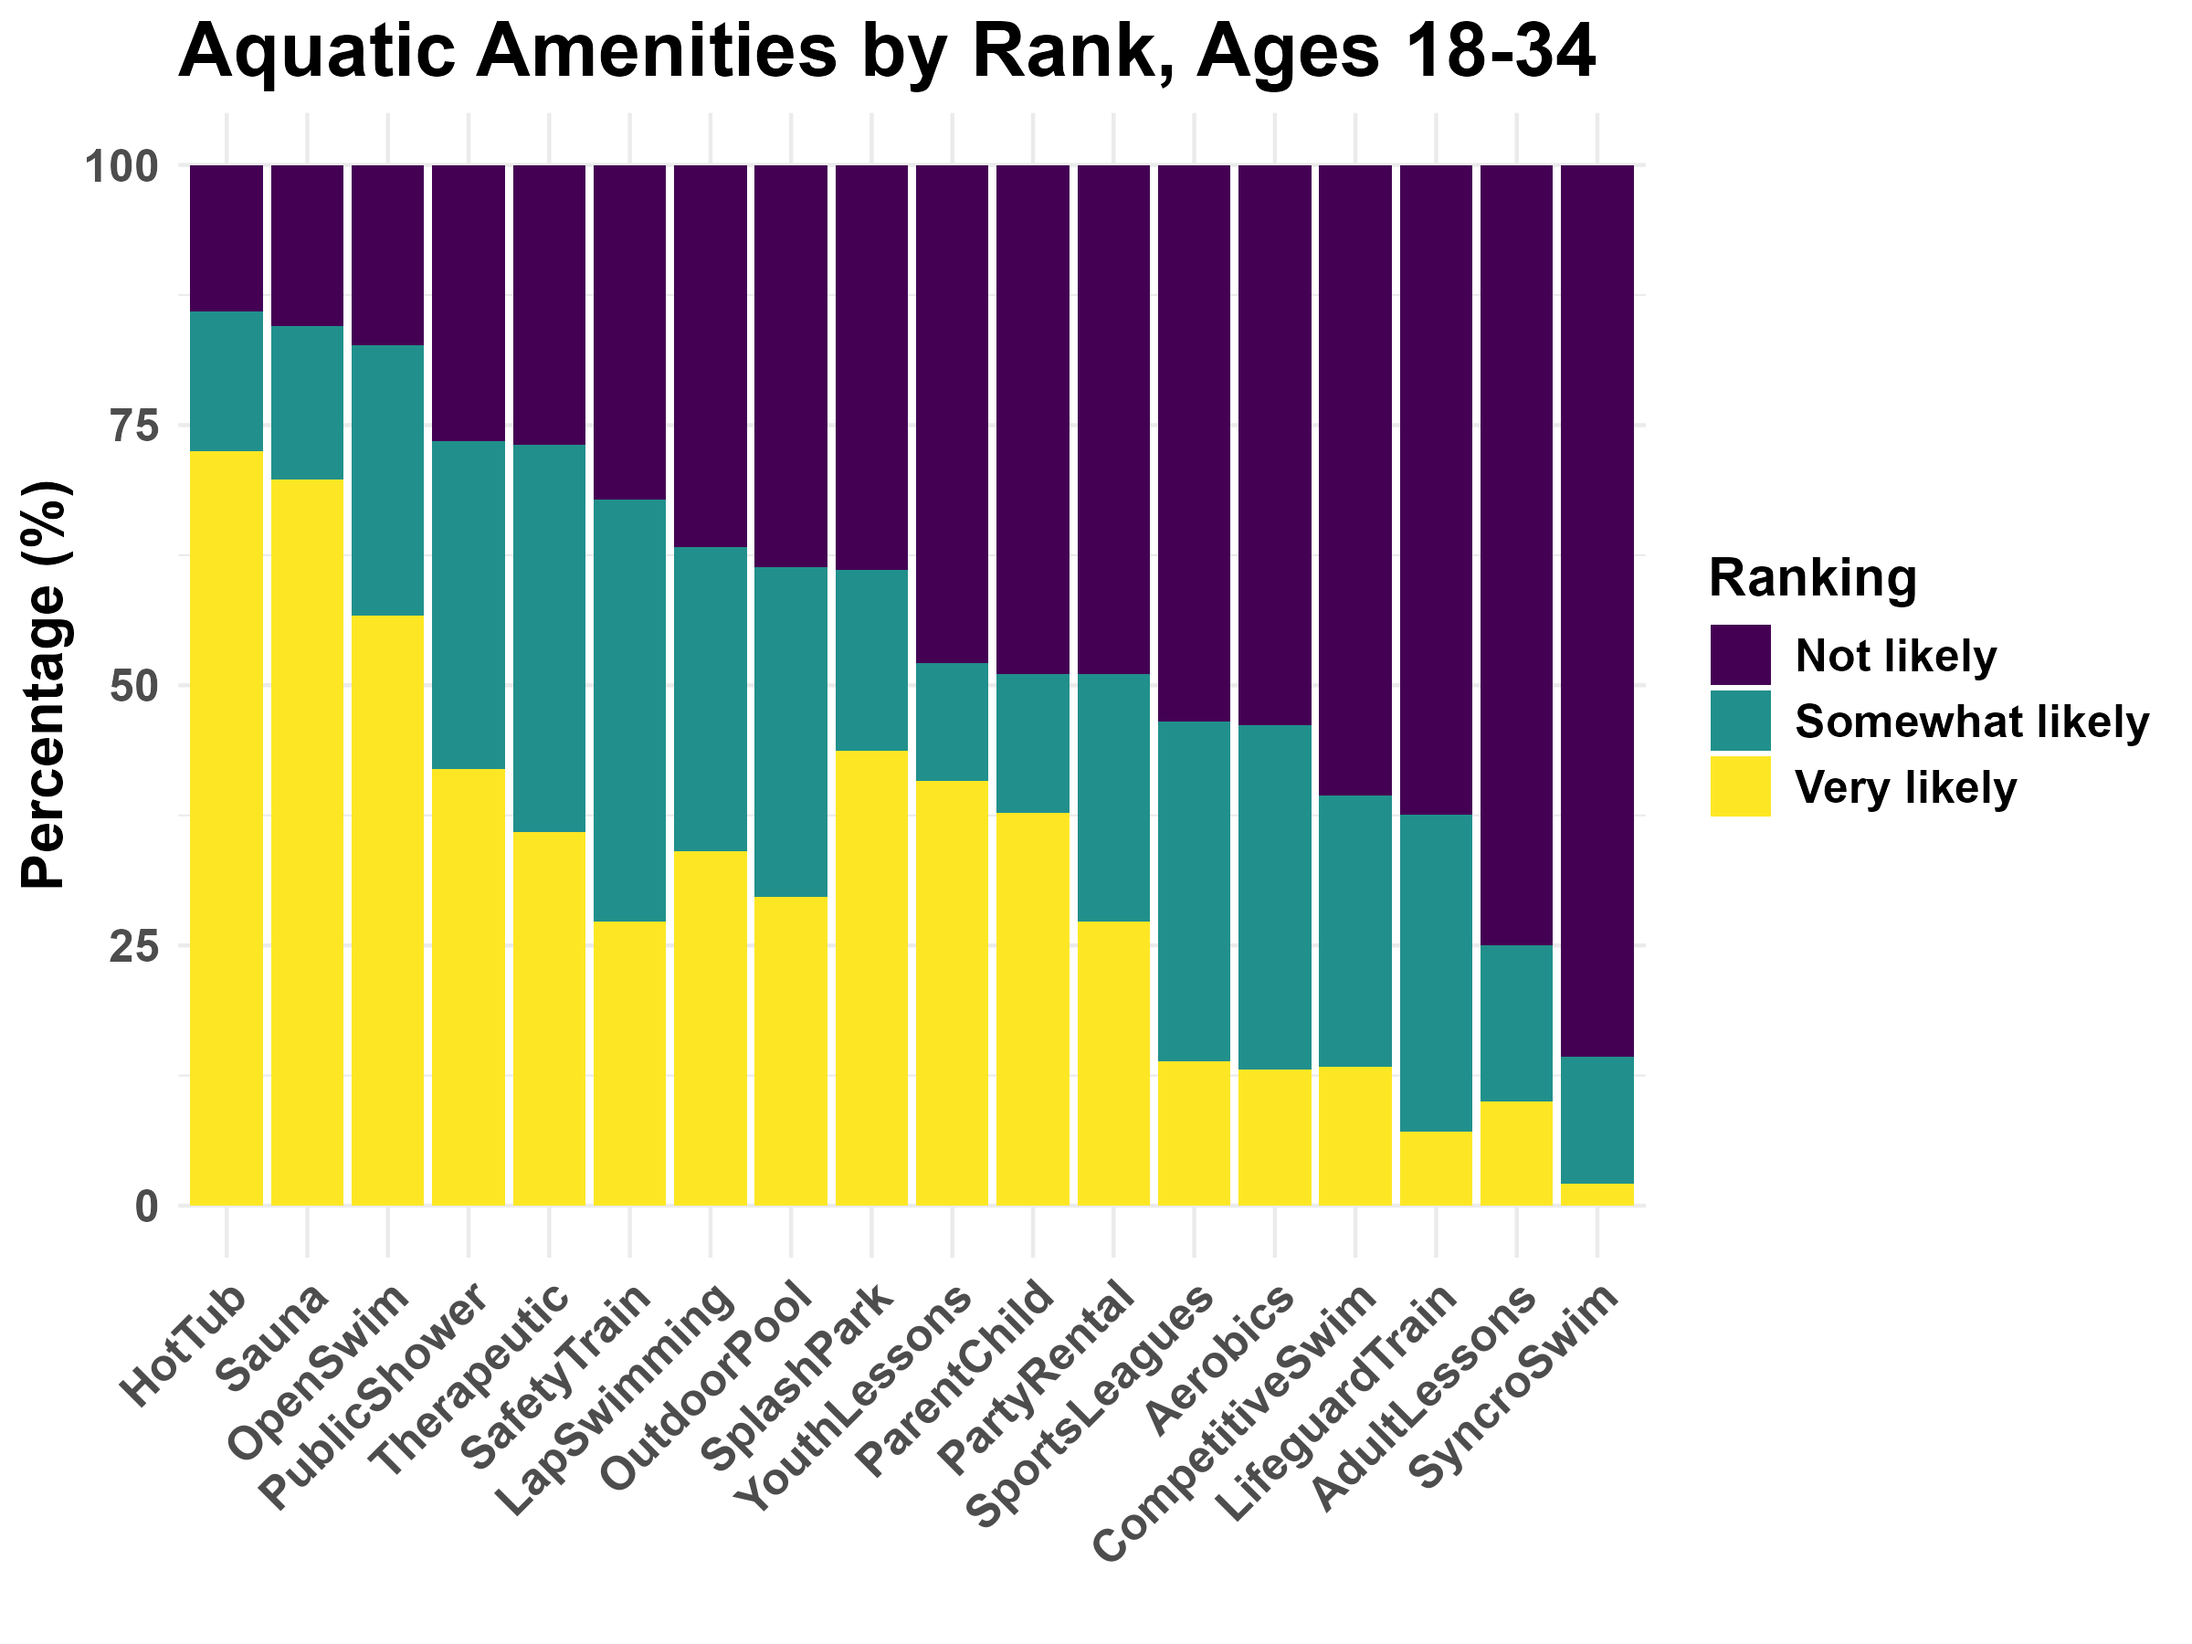
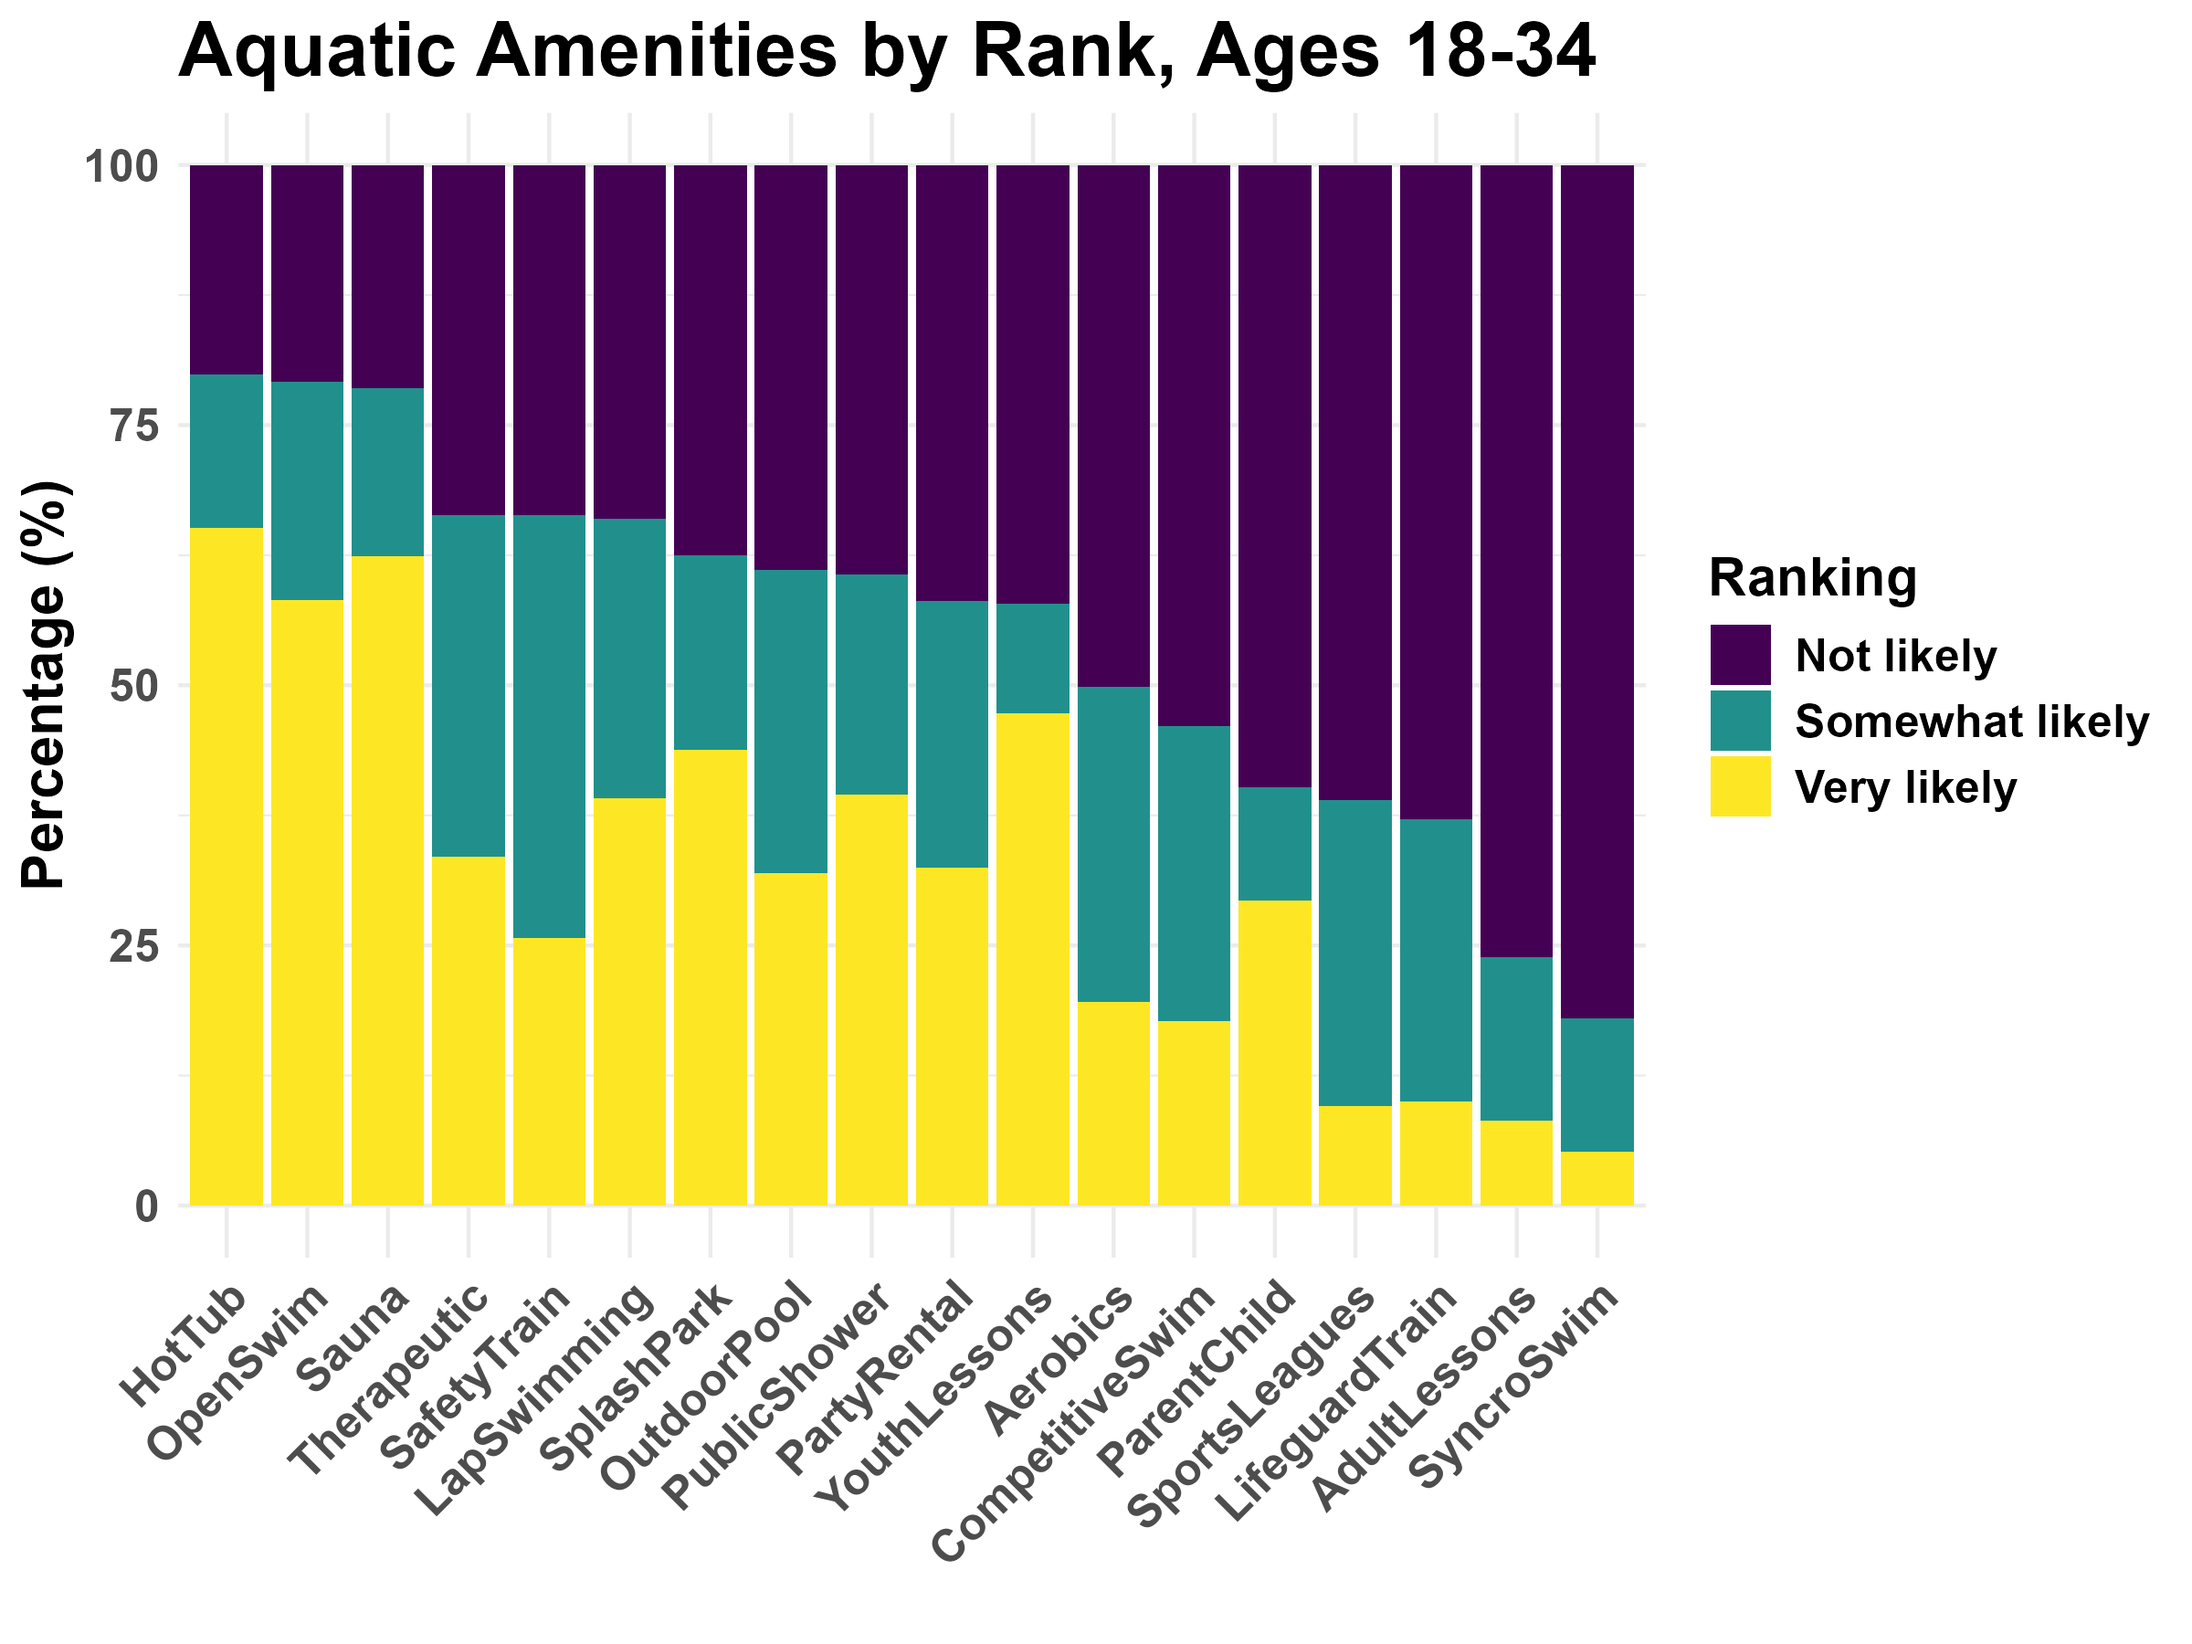
a few small figure refinements and a weighting verification step

diff --git a/tables/SurveyStatusTable.html b/tables/SurveyStatusTable.html
@@ -7,23 +7,23 @@
 
 </head>
 <body>
-<div id="dekkhoxgjw" style="padding-left:0px;padding-right:0px;padding-top:10px;padding-bottom:10px;overflow-x:auto;overflow-y:auto;width:auto;height:auto;">
-  <style>#dekkhoxgjw table {
+<div id="dgaduokouz" style="padding-left:0px;padding-right:0px;padding-top:10px;padding-bottom:10px;overflow-x:auto;overflow-y:auto;width:auto;height:auto;">
+  <style>#dgaduokouz table {
   font-family: system-ui, 'Segoe UI', Roboto, Helvetica, Arial, sans-serif, 'Apple Color Emoji', 'Segoe UI Emoji', 'Segoe UI Symbol', 'Noto Color Emoji';
   -webkit-font-smoothing: antialiased;
   -moz-osx-font-smoothing: grayscale;
 }
 
-#dekkhoxgjw thead, #dekkhoxgjw tbody, #dekkhoxgjw tfoot, #dekkhoxgjw tr, #dekkhoxgjw td, #dekkhoxgjw th {
+#dgaduokouz thead, #dgaduokouz tbody, #dgaduokouz tfoot, #dgaduokouz tr, #dgaduokouz td, #dgaduokouz th {
   border-style: none;
 }
 
-#dekkhoxgjw p {
+#dgaduokouz p {
   margin: 0;
   padding: 0;
 }
 
-#dekkhoxgjw .gt_table {
+#dgaduokouz .gt_table {
   display: table;
   border-collapse: collapse;
   line-height: normal;
@@ -49,12 +49,12 @@
   border-left-color: #D3D3D3;
 }
 
-#dekkhoxgjw .gt_caption {
+#dgaduokouz .gt_caption {
   padding-top: 4px;
   padding-bottom: 4px;
 }
 
-#dekkhoxgjw .gt_title {
+#dgaduokouz .gt_title {
   color: #333333;
   font-size: 125%;
   font-weight: initial;
@@ -66,7 +66,7 @@
   border-bottom-width: 0;
 }
 
-#dekkhoxgjw .gt_subtitle {
+#dgaduokouz .gt_subtitle {
   color: #333333;
   font-size: 85%;
   font-weight: initial;
@@ -78,7 +78,7 @@
   border-top-width: 0;
 }
 
-#dekkhoxgjw .gt_heading {
+#dgaduokouz .gt_heading {
   background-color: #FFFFFF;
   text-align: center;
   border-bottom-color: #FFFFFF;
@@ -90,13 +90,13 @@
   border-right-color: #D3D3D3;
 }
 
-#dekkhoxgjw .gt_bottom_border {
+#dgaduokouz .gt_bottom_border {
   border-bottom-style: solid;
   border-bottom-width: 2px;
   border-bottom-color: #D3D3D3;
 }
 
-#dekkhoxgjw .gt_col_headings {
+#dgaduokouz .gt_col_headings {
   border-top-style: solid;
   border-top-width: 2px;
   border-top-color: #D3D3D3;
@@ -111,7 +111,7 @@
   border-right-color: #D3D3D3;
 }
 
-#dekkhoxgjw .gt_col_heading {
+#dgaduokouz .gt_col_heading {
   color: #333333;
   background-color: #FFFFFF;
   font-size: 100%;
@@ -131,7 +131,7 @@
   overflow-x: hidden;
 }
 
-#dekkhoxgjw .gt_column_spanner_outer {
+#dgaduokouz .gt_column_spanner_outer {
   color: #333333;
   background-color: #FFFFFF;
   font-size: 100%;
@@ -143,15 +143,15 @@
   padding-right: 4px;
 }
 
-#dekkhoxgjw .gt_column_spanner_outer:first-child {
+#dgaduokouz .gt_column_spanner_outer:first-child {
   padding-left: 0;
 }
 
-#dekkhoxgjw .gt_column_spanner_outer:last-child {
+#dgaduokouz .gt_column_spanner_outer:last-child {
   padding-right: 0;
 }
 
-#dekkhoxgjw .gt_column_spanner {
+#dgaduokouz .gt_column_spanner {
   border-bottom-style: solid;
   border-bottom-width: 2px;
   border-bottom-color: #D3D3D3;
@@ -163,11 +163,11 @@
   width: 100%;
 }
 
-#dekkhoxgjw .gt_spanner_row {
+#dgaduokouz .gt_spanner_row {
   border-bottom-style: hidden;
 }
 
-#dekkhoxgjw .gt_group_heading {
+#dgaduokouz .gt_group_heading {
   padding-top: 8px;
   padding-bottom: 8px;
   padding-left: 5px;
@@ -193,7 +193,7 @@
   text-align: left;
 }
 
-#dekkhoxgjw .gt_empty_group_heading {
+#dgaduokouz .gt_empty_group_heading {
   padding: 0.5px;
   color: #333333;
   background-color: #FFFFFF;
@@ -208,15 +208,15 @@
   vertical-align: middle;
 }
 
-#dekkhoxgjw .gt_from_md > :first-child {
+#dgaduokouz .gt_from_md > :first-child {
   margin-top: 0;
 }
 
-#dekkhoxgjw .gt_from_md > :last-child {
+#dgaduokouz .gt_from_md > :last-child {
   margin-bottom: 0;
 }
 
-#dekkhoxgjw .gt_row {
+#dgaduokouz .gt_row {
   padding-top: 8px;
   padding-bottom: 8px;
   padding-left: 5px;
@@ -235,7 +235,7 @@
   overflow-x: hidden;
 }
 
-#dekkhoxgjw .gt_stub {
+#dgaduokouz .gt_stub {
   color: #333333;
   background-color: #FFFFFF;
   font-size: 100%;
@@ -248,7 +248,7 @@
   padding-right: 5px;
 }
 
-#dekkhoxgjw .gt_stub_row_group {
+#dgaduokouz .gt_stub_row_group {
   color: #333333;
   background-color: #FFFFFF;
   font-size: 100%;
@@ -262,15 +262,15 @@
   vertical-align: top;
 }
 
-#dekkhoxgjw .gt_row_group_first td {
+#dgaduokouz .gt_row_group_first td {
   border-top-width: 2px;
 }
 
-#dekkhoxgjw .gt_row_group_first th {
+#dgaduokouz .gt_row_group_first th {
   border-top-width: 2px;
 }
 
-#dekkhoxgjw .gt_summary_row {
+#dgaduokouz .gt_summary_row {
   color: #333333;
   background-color: #FFFFFF;
   text-transform: inherit;
@@ -280,16 +280,16 @@
   padding-right: 5px;
 }
 
-#dekkhoxgjw .gt_first_summary_row {
+#dgaduokouz .gt_first_summary_row {
   border-top-style: solid;
   border-top-color: #D3D3D3;
 }
 
-#dekkhoxgjw .gt_first_summary_row.thick {
+#dgaduokouz .gt_first_summary_row.thick {
   border-top-width: 2px;
 }
 
-#dekkhoxgjw .gt_last_summary_row {
+#dgaduokouz .gt_last_summary_row {
   padding-top: 8px;
   padding-bottom: 8px;
   padding-left: 5px;
@@ -299,7 +299,7 @@
   border-bottom-color: #D3D3D3;
 }
 
-#dekkhoxgjw .gt_grand_summary_row {
+#dgaduokouz .gt_grand_summary_row {
   color: #333333;
   background-color: #FFFFFF;
   text-transform: inherit;
@@ -309,7 +309,7 @@
   padding-right: 5px;
 }
 
-#dekkhoxgjw .gt_first_grand_summary_row {
+#dgaduokouz .gt_first_grand_summary_row {
   padding-top: 8px;
   padding-bottom: 8px;
   padding-left: 5px;
@@ -319,7 +319,7 @@
   border-top-color: #D3D3D3;
 }
 
-#dekkhoxgjw .gt_last_grand_summary_row_top {
+#dgaduokouz .gt_last_grand_summary_row_top {
   padding-top: 8px;
   padding-bottom: 8px;
   padding-left: 5px;
@@ -329,11 +329,11 @@
   border-bottom-color: #D3D3D3;
 }
 
-#dekkhoxgjw .gt_striped {
+#dgaduokouz .gt_striped {
   background-color: rgba(128, 128, 128, 0.05);
 }
 
-#dekkhoxgjw .gt_table_body {
+#dgaduokouz .gt_table_body {
   border-top-style: solid;
   border-top-width: 2px;
   border-top-color: #D3D3D3;
@@ -342,7 +342,7 @@
   border-bottom-color: #D3D3D3;
 }
 
-#dekkhoxgjw .gt_footnotes {
+#dgaduokouz .gt_footnotes {
   color: #333333;
   background-color: #FFFFFF;
   border-bottom-style: none;
@@ -356,7 +356,7 @@
   border-right-color: #D3D3D3;
 }
 
-#dekkhoxgjw .gt_footnote {
+#dgaduokouz .gt_footnote {
   margin: 0px;
   font-size: 90%;
   padding-top: 4px;
@@ -365,7 +365,7 @@
   padding-right: 5px;
 }
 
-#dekkhoxgjw .gt_sourcenotes {
+#dgaduokouz .gt_sourcenotes {
   color: #333333;
   background-color: #FFFFFF;
   border-bottom-style: none;
@@ -379,7 +379,7 @@
   border-right-color: #D3D3D3;
 }
 
-#dekkhoxgjw .gt_sourcenote {
+#dgaduokouz .gt_sourcenote {
   font-size: 90%;
   padding-top: 4px;
   padding-bottom: 4px;
@@ -387,72 +387,72 @@
   padding-right: 5px;
 }
 
-#dekkhoxgjw .gt_left {
+#dgaduokouz .gt_left {
   text-align: left;
 }
 
-#dekkhoxgjw .gt_center {
+#dgaduokouz .gt_center {
   text-align: center;
 }
 
-#dekkhoxgjw .gt_right {
+#dgaduokouz .gt_right {
   text-align: right;
   font-variant-numeric: tabular-nums;
 }
 
-#dekkhoxgjw .gt_font_normal {
+#dgaduokouz .gt_font_normal {
   font-weight: normal;
 }
 
-#dekkhoxgjw .gt_font_bold {
+#dgaduokouz .gt_font_bold {
   font-weight: bold;
 }
 
-#dekkhoxgjw .gt_font_italic {
+#dgaduokouz .gt_font_italic {
   font-style: italic;
 }
 
-#dekkhoxgjw .gt_super {
+#dgaduokouz .gt_super {
   font-size: 65%;
 }
 
-#dekkhoxgjw .gt_footnote_marks {
+#dgaduokouz .gt_footnote_marks {
   font-size: 75%;
   vertical-align: 0.4em;
   position: initial;
 }
 
-#dekkhoxgjw .gt_asterisk {
+#dgaduokouz .gt_asterisk {
   font-size: 100%;
   vertical-align: 0;
 }
 
-#dekkhoxgjw .gt_indent_1 {
+#dgaduokouz .gt_indent_1 {
   text-indent: 5px;
 }
 
-#dekkhoxgjw .gt_indent_2 {
+#dgaduokouz .gt_indent_2 {
   text-indent: 10px;
 }
 
-#dekkhoxgjw .gt_indent_3 {
+#dgaduokouz .gt_indent_3 {
   text-indent: 15px;
 }
 
-#dekkhoxgjw .gt_indent_4 {
+#dgaduokouz .gt_indent_4 {
   text-indent: 20px;
 }
 
-#dekkhoxgjw .gt_indent_5 {
+#dgaduokouz .gt_indent_5 {
   text-indent: 25px;
 }
 
-#dekkhoxgjw .katex-display {
+#dgaduokouz .katex-display {
   display: inline-flex !important;
   margin-bottom: 0.75em !important;
 }
 
-#dekkhoxgjw div.Reactable > div.rt-table > div.rt-thead > div.rt-tr.rt-tr-group-header > div.rt-th-group:after {
+#dgaduokouz div.Reactable > div.rt-table > div.rt-thead > div.rt-tr.rt-tr-group-header > div.rt-th-group:after {
   height: 0px !important;
 }
 </style>
